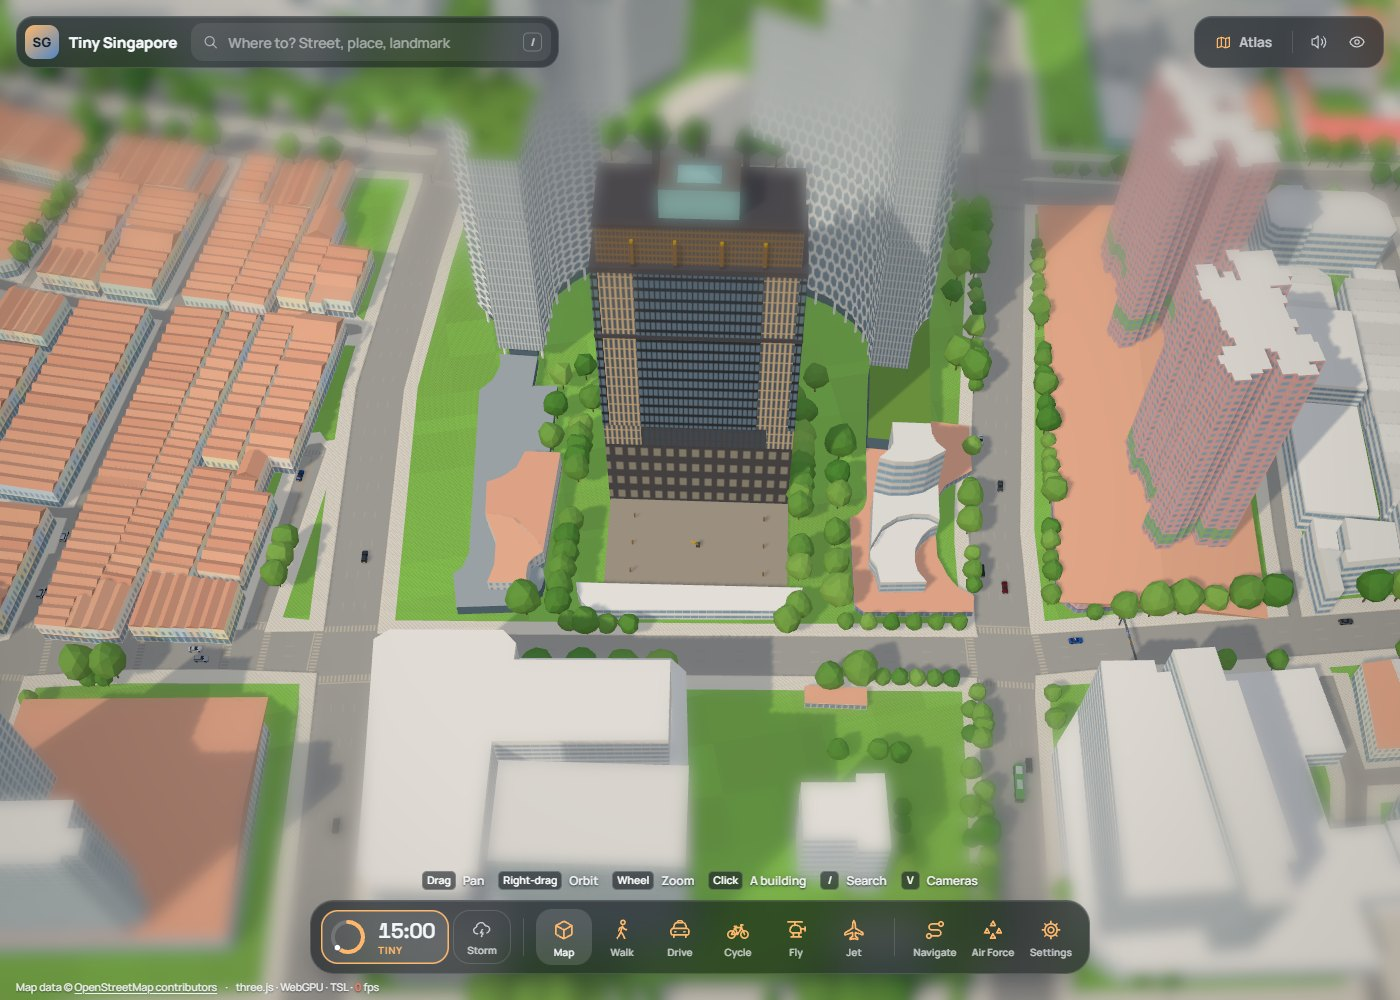
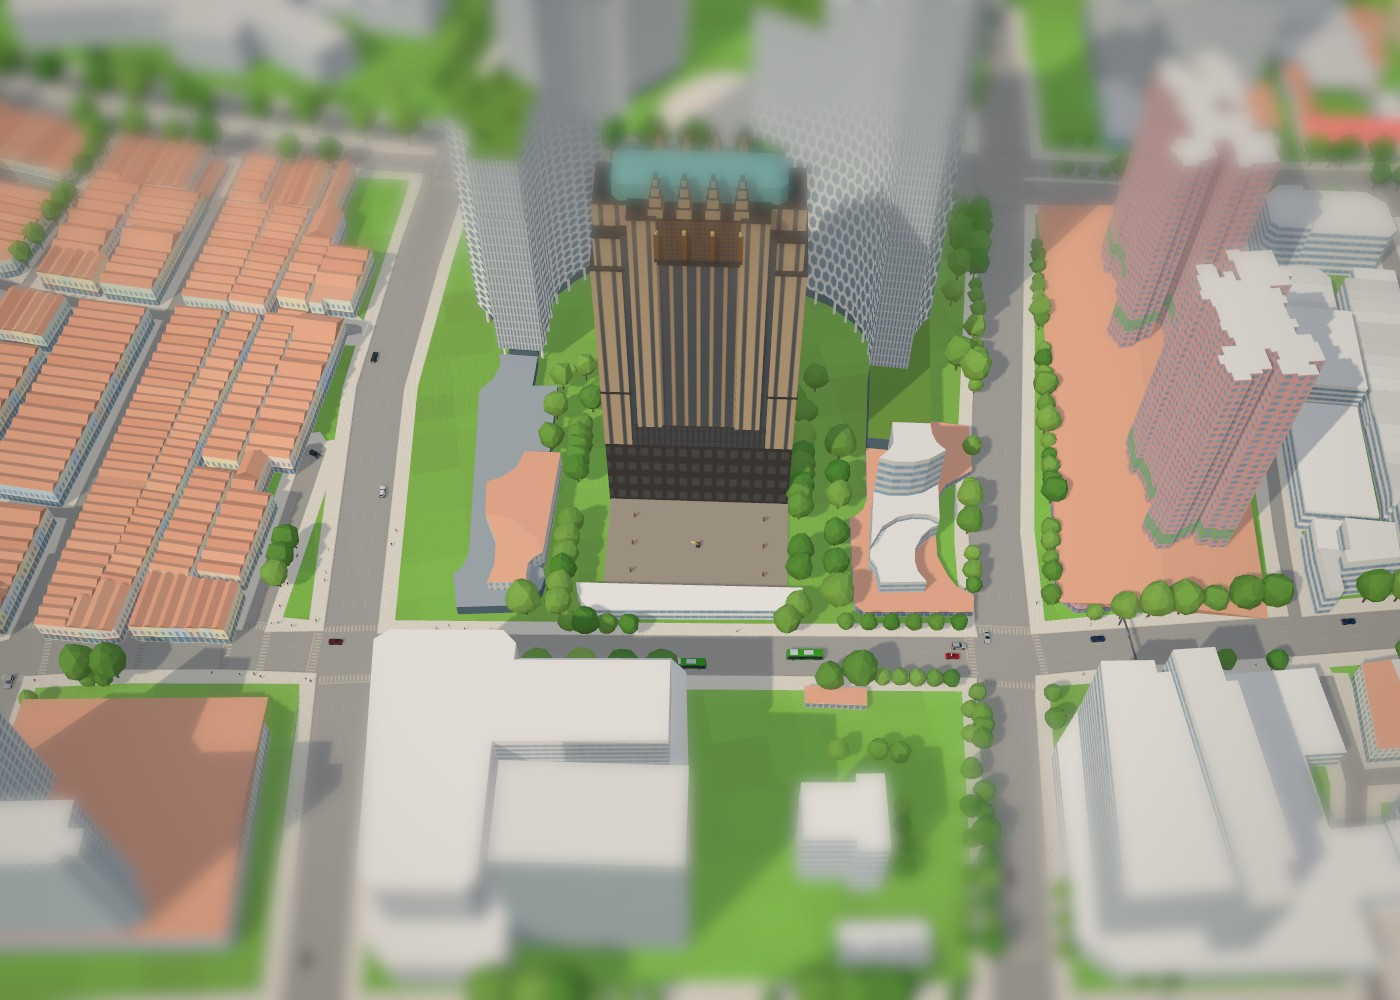
Rebuild SG-235 Parkview Square's facade and crown from the photographs
The first version read as a different building: a blue-black glass
curtain on each broad face framed by a tan grid of floor lines, a bronze
band round the whole crown and three black slabs on one side of the
roof. Rebuilt against the Commons photographs and the aerial:

- warm tan granite cut by narrow dark slots (no floor lines) on the
  corner tiers and the proud pylons, with a dark glass recess between
- the recessed centre bay of six dark glass strips between tan piers
- the bronze grille only across the centre bay, a statue on each of its
  four piers and a four-stepped fin to 144 m over each, on both faces
- pylons rising to the grille's top, corner tiers stepping lower, and
  end attics carrying the long green-glass lantern on the roof deck

A new test pins that crown form and fails on the first version. Source
notes, preview and city renders, and the checklist row are updated;
full Windows suite 635 of 636 (only the tile-worker fixture fails).

diff --git a/js/landmark-models/parkview-square.js b/js/landmark-models/parkview-square.js
@@ -1,8 +1,18 @@
-// The Neo-Art-Deco "Gotham" tower at 600 North Bridge Road: charcoal plinth, striped
-// stone-and-glass shaft, bronze crown screen with its eight statues, stepped fins and
-// the green roof lantern, over the statue plaza with the golden crane.
-// See docs/parkview-square.md for the drawing frame and reference photographs.
+// The Neo-Art-Deco "Gotham" tower at 600 North Bridge Road: charcoal granite plinth, warm tan
+// granite shaft cut by dark bronze-glass slots, the dark glass centre bay on each broad face
+// under its bronze crown grille with four statues and four stepped fins, the taller tan pylons
+// either side, the lower stepped corner tiers and the long green-glass roof lantern, over the
+// statue plaza with the golden crane. See docs/parkview-square.md for the drawing frame and
+// reference photographs.
 export const info = { name: 'Parkview Square', height: 144 };
+
+// Along the long faces (a, metres north-east from the south corner): corner tier, dark glass
+// recess, tan pylon, then the centre bay between the statue piers, and the same mirrored.
+const L = 61, D = 26.7;
+const TIER = 8.9, RECESS = 2.2, PYLON = 7.8;
+const BAY0 = TIER + RECESS + PYLON, BAY1 = L - BAY0;
+const DECK = 132.8; // the roof deck: the grille's cornice and the ends' attics
+const PIERS = [0, 1, 2, 3].map(k => BAY0 + k * (BAY1 - BAY0) / 3);
 
 export function build(kit, site) {
   const mapped = id => site.parts.find(p => p.id === id).ring;
@@ -22,62 +32,88 @@ export function build(kit, site) {
     kit.collisionPrism({ ring: part.ring, y0: part.y0, y1: part.y1 });
     return part;
   };
+  // A block from corner (a0, b0) to (a1, b1); its first wall is the one along a at b0, so a
+  // facade's bays start at that corner (uv runs on round the ring).
+  const block = (a0, b0, a1, b1, y0, y1, material, top, name, collide = true) => {
+    const ring = plan([[a0, b0], [a1, b0], [a1, b1], [a0, b1]]);
+    const part = kit.prism({ ring, y0, y1, material, top, name });
+    if (collide) kit.collisionPrism({ ring, y0, y1 });
+    return part;
+  };
 
-  const darkStone = kit.material(0x4a484c);
-  const roofGrey = kit.material(0x6d6a66);
-  const bronze = kit.material(0x8a6a42, { roughness: 0.38, metalness: 0.55 });
-  const gold = kit.material(0xc9a227, { roughness: 0.3, metalness: 0.65 });
+  const darkStone = kit.material(0x3f3b39);
+  const tanStone = kit.material(0xb8a48a);
+  const bronze = kit.material(0x7d5a39, { roughness: 0.38, metalness: 0.55 });
+  const gold = kit.material(0xd8c38a, { roughness: 0.3, metalness: 0.5 });
   const paving = kit.material(0x9a9184);
-  const lanternGlass = kit.glassMaterial(0x8fb8ad);
-  const plinthFacade = kit.facadeMaterial({ wall: 0x4c4a4c, window: 0x8a795c, pattern: 'punched', floorHeight: 8, bayWidth: 4.2, windowWidth: 0.55, windowHeight: 0.5 });
-  const bandFacade = kit.facadeMaterial({ wall: 0x4c4a4c, window: 0x242526, pattern: 'strips', floorHeight: 5, bayWidth: 1.8, windowWidth: 0.65 });
-  const shaftFacade = kit.facadeMaterial({ wall: 0xcbb391, window: 0x33393f, pattern: 'strips', floorHeight: 4.4, bayWidth: 1.55, windowWidth: 0.6 });
-  const glassField = kit.facadeMaterial({ wall: 0x2e3134, window: 0x54626e, pattern: 'curtain', floorHeight: 4.4, bayWidth: 1.55 });
-  const screenFacade = kit.facadeMaterial({ wall: 0x8a6f4d, window: 0x37302a, pattern: 'curtain', floorHeight: 2.3, bayWidth: 1.1 });
+  const darkGlass = kit.glassMaterial(0x2a2623);
+  const lanternGlass = kit.glassMaterial(0x6f9c8c);
+  const plinthFacade = kit.facadeMaterial({ wall: 0x403c3b, window: 0x2a2018, pattern: 'punched', floorHeight: 8, bayWidth: 4.2, windowWidth: 0.6, windowHeight: 0.5 });
+  const bandFacade = kit.facadeMaterial({ wall: 0x46423f, window: 0x26221f, pattern: 'strips', floorHeight: 5, bayWidth: 1.8, windowWidth: 0.6 });
+  // Tan granite with narrow dark slots running the shaft's height (no floor lines: the slots'
+  // spandrels are dark bronze); bays sized so every face starts and ends on a pier.
+  const slots = bay => kit.facadeMaterial({ wall: 0xb8a48a, window: 0x332d29, pattern: 'strips', floorHeight: 150, bayWidth: bay, windowWidth: 1.3 / bay });
+  const tierStone = slots(D / 6), pylonStone = slots((D + 0.6) / 7);
+  // The centre bays: six tall dark bronze-glass fields between narrow tan piers.
+  const centreField = kit.facadeMaterial({ wall: 0xa8937a, window: 0x332d29, pattern: 'strips', floorHeight: 150, bayWidth: (BAY1 - BAY0 - 0.1) / 6, windowWidth: 0.72 });
+  const grille = kit.facadeMaterial({ wall: 0x7a5a3c, window: 0x2d2620, pattern: 'curtain', floorHeight: 1.6, bayWidth: 1.3 });
 
-  // The mapped 1-level plaza deck north-west of the tower, and the tower's charcoal plinth.
+  // The mapped 1-level plaza deck north-west of the tower, and the charcoal granite plinth.
   kit.prism({ ring: plaza, y1: 0.9, material: paving, top: paving, name: 'plaza-deck', outlineCollision: true });
-  box(30.5, 13.35, { y: 0, w: 61, h: 32, d: 26.7, material: plinthFacade, top: darkStone, name: 'plinth' });
-  // The level 6-8 band, keeping the mapper's dark colonnade centre and tan ends.
-  solid(28.9, 13.35, { y: 32, w: 40.4, h: 10, d: 26.7, material: bandFacade, top: darkStone, name: 'colonnade-band' });
-  solid(4.35, 13.35, { y: 32, w: 8.7, h: 10, d: 26.7, material: shaftFacade, top: darkStone, name: 'band-end-sw' });
-  solid(55.05, 13.35, { y: 32, w: 11.9, h: 10, d: 26.7, material: shaftFacade, top: darkStone, name: 'band-end-ne' });
-
-  // The striped shaft in two lifts either side of its dark string course.
-  solid(30.5, 13.35, { y: 42, w: 61, h: 42.5, d: 26.7, material: shaftFacade, top: roofGrey, name: 'shaft-lower' });
-  solid(30.5, 13.35, { y: 84.5, w: 61.9, h: 1.5, d: 27.6, material: darkStone, top: darkStone, name: 'string-course' });
-  solid(30.5, 13.35, { y: 86, w: 61, h: 26, d: 26.7, material: shaftFacade, top: roofGrey, name: 'shaft-upper' });
-
-  // Dark glass centre fields proud of the stripes, and the dark corner bays.
-  for (const b of [-0.1, 26.8]) box(30.5, b, { y: 42, w: 37, h: 69.7, d: 0.35, material: glassField, top: darkStone, name: 'glass-centre-field' });
-  for (const a of [-0.1, 61.1]) box(a, 13.35, { y: 42, w: 0.35, h: 69.7, d: 5.5, material: glassField, top: darkStone, name: 'glass-end-slot' });
-  for (const [a, b] of [[0.85, 0.85], [60.15, 0.85], [0.85, 25.85], [60.15, 25.85]]) {
-    box(a, b, { y: 42, w: 2.2, h: 69.7, d: 2.2, material: glassField, top: darkStone, name: 'corner-bay' });
+  box(L / 2, D / 2, { y: 0, w: L, h: 32, d: D, material: plinthFacade, top: darkStone, name: 'plinth' });
+  // The level 6-8 band keeps the mapper's dark colonnade (centre bay, pylons and recesses);
+  // the tan corner tiers start there, set back with a cornice at 58 m and 113 m, capped at 125 m,
+  // and an attic in the middle of each end carries the lantern up to the roof deck.
+  solid(L / 2, D / 2, { y: 32, w: L - 2 * TIER, h: 10, d: D, material: bandFacade, top: darkStone, name: 'colonnade-band' });
+  for (const [a0, a1, end] of [[0, TIER, 0], [L - TIER, L, L]]) {
+    const side = end ? 'ne' : 'sw', inA = end ? [a0, a1 - 1.2] : [a0 + 1.2, a1];
+    block(a0, 0, a1, D, 32, 113, tierStone, darkStone, `corner-tier-${side}`);
+    for (const y of [58, 112.4]) box((a0 + a1) / 2, D / 2, { y, w: TIER + 0.5, h: 0.8, d: D + 0.5, material: darkStone, top: darkStone, name: 'tier-cornice' });
+    block(inA[0], 1.2, inA[1], D - 1.2, 113, 124, tierStone, darkStone, `corner-tier-top-${side}`);
+    solid((inA[0] + inA[1]) / 2, D / 2, { y: 124, w: TIER - 0.7, h: 1, d: D - 1.9, material: darkStone, top: darkStone, name: 'tier-cap' });
+    const attic = end ? [L - TIER - RECESS + 0.1, inA[1]] : [inA[0], TIER + RECESS - 0.1];
+    block(attic[0], 5, attic[1], D - 5, 125, DECK, tierStone, darkStone, `end-attic-${side}`);
+    // The dark glass strip up the middle of each end face.
+    box(end ? L + 0.1 : -0.1, D / 2, { y: 42, w: 0.2, h: 70, d: 3.4, material: darkGlass, top: darkStone, name: 'end-glass-strip' });
+  }
+  // The dark glass recesses between the corner tiers and the pylons, up to the attics' foot.
+  for (const a0 of [TIER, L - TIER - RECESS]) block(a0, 0.7, a0 + RECESS, D - 0.7, 42, 125.3, darkGlass, darkStone, 'glass-recess');
+  // The tan pylons framing the centre bay, standing a little proud and rising highest.
+  for (const a0 of [TIER + RECESS, BAY1]) {
+    block(a0, -0.3, a0 + PYLON, D + 0.3, 42, 132.5, pylonStone, darkStone, 'pylon');
+    solid(a0 + PYLON / 2, D / 2, { y: 132.5, w: PYLON + 0.5, h: 1.2, d: D + 1.1, material: darkStone, top: darkStone, name: 'pylon-cornice' });
   }
 
-  // Crown: cornice, the inset bronze grille screen and its own cornice.
-  solid(30.5, 13.35, { y: 112, w: 61.7, h: 2, d: 27.4, material: darkStone, top: darkStone, name: 'crown-cornice' });
-  solid(30.5, 13.35, { y: 114, w: 57.8, h: 14, d: 23.5, material: screenFacade, top: darkStone, name: 'crown-screen' });
-  solid(30.5, 13.35, { y: 128, w: 58.6, h: 1.2, d: 24.3, material: darkStone, top: darkStone, name: 'screen-cornice' });
+  // The centre bay: a dark core behind the two glass fields, which sit back from the pylons.
+  block(BAY0 + 0.1, 0.9, BAY1 - 0.1, D - 0.9, 42, 114.9, darkStone, darkStone, 'centre-core');
+  block(BAY0 + 0.05, 0.6, BAY1 - 0.05, 1.0, 42, 115, centreField, darkStone, 'glass-centre-field', false);
+  block(BAY1 - 0.05, D - 0.6, BAY0 + 0.05, D - 1.0, 42, 115, centreField, darkStone, 'glass-centre-field', false);
 
-  // Four giant statues on plinths before the screen on each broad (long) side.
-  for (const b of [0.55, 26.15]) for (const a of [12, 24, 37, 49]) {
-    box(a, b, { y: 114, w: 1.1, h: 1.2, d: 1.1, material: darkStone, top: darkStone, name: 'crown-statue-plinth' });
-    box(a, b, { y: 115.2, w: 0.9, h: 8, d: 0.9, material: bronze, top: bronze, name: 'crown-statue' });
+  // Crown: the cornice over the centre bay, the inset bronze grille screen and its own cornice,
+  // whose top is the roof deck.
+  solid((BAY0 + BAY1) / 2, D / 2, { y: 115, w: BAY1 - BAY0, h: 2, d: D - 0.4, material: darkStone, top: darkStone, name: 'crown-cornice' });
+  solid((BAY0 + BAY1) / 2, D / 2, { y: 117, w: BAY1 - BAY0, h: 15, d: D - 1.2, material: grille, top: darkStone, name: 'crown-screen' });
+  solid((BAY0 + BAY1) / 2, D / 2, { y: 132, w: BAY1 - BAY0, h: DECK - 132, d: D - 0.6, material: darkStone, top: darkStone, name: 'screen-cornice' });
+
+  // On each broad face, a giant statue on each of the four piers of the grille, holding a light
+  // globe, and over each pier a stepped fin rising from the face to the 144 m crown.
+  for (const [b, inward] of [[0, 1], [D, -1]]) for (const a of PIERS) {
+    box(a, b, { y: 117, w: 1.4, h: 1.2, d: 1.4, material: darkStone, top: darkStone, name: 'crown-statue-plinth' });
+    box(a, b, { y: 118.2, w: 1.4, h: 9.2, d: 1.1, material: bronze, top: bronze, name: 'crown-statue' });
     const [x, z] = point(a, b);
-    kit.cylinder({ x, z, y0: 123.2, y1: 124.1, r: 0.5, segments: 10, material: gold, top: gold, name: 'crown-statue-ball' });
+    kit.cylinder({ x, z, y0: 127.4, y1: 128.4, r: 0.55, segments: 10, material: gold, top: gold, name: 'crown-statue-ball' });
+    const back = b + inward * 6.0;
+    for (const [y0, y1, w, front, name] of [[DECK, 136, 4, 0.3, 'crown-fin'], [136, 139, 3.1, 1.2, 'crown-fin-step'], [139, 141.8, 2.2, 2.1, 'crown-fin-step'], [141.8, 144, 1.3, 3, 'crown-fin-tip']]) {
+      const b0 = b + inward * front;
+      solid(a, (b0 + back) / 2, { y: y0, w, h: y1 - y0, d: Math.abs(back - b0), material: tanStone, top: darkStone, name });
+    }
   }
 
-  // Stepped transverse fins along the front of the roof, the glass lantern behind them.
-  for (const a of [18, 30.5, 43]) {
-    solid(a, 5, { y: 129.2, w: 1.8, h: 8.8, d: 8, material: darkStone, top: darkStone, name: 'crown-fin' });
-    solid(a, 5, { y: 138, w: 1.8, h: 3, d: 4.5, material: darkStone, top: darkStone, name: 'crown-fin-step' });
-  }
-  solid(30.5, 5, { y: 141, w: 1.8, h: 3, d: 2.6, material: darkStone, top: darkStone, name: 'crown-fin-tip' });
-  solid(30.5, 16, { y: 126, w: 22, h: 13.5, d: 13, material: lanternGlass, top: roofGrey, name: 'roof-lantern' });
-  const capRing = plan([[24.5, 12.5], [36.5, 12.5], [36.5, 19.5], [24.5, 19.5]]);
-  kit.loft({ ring: capRing, y0: 139.5, y1: 141.5, scale: 0.3, material: lanternGlass, top: lanternGlass, name: 'roof-lantern-cap' });
-  kit.collisionPrism({ ring: plan([[27, 14], [34, 14], [34, 18], [27, 18]]), y0: 139.5, y1: 141.5 });
+  // The long green-glass lantern on the roof deck, its corners cut, between the two rows of fins.
+  const lantern = plan([[8.5, 6.8], [L - 8.5, 6.8], [L - 6.5, 8.8], [L - 6.5, D - 8.8], [L - 8.5, D - 6.8], [8.5, D - 6.8], [6.5, D - 8.8], [6.5, 8.8]]);
+  kit.prism({ ring: lantern, y0: DECK, y1: 138.8, material: lanternGlass, top: lanternGlass, name: 'roof-lantern' });
+  kit.collisionPrism({ ring: lantern, y0: DECK, y1: 138.8 });
+  kit.loft({ ring: lantern, y0: 138.8, y1: 140.2, scale: 0.85, material: lanternGlass, top: lanternGlass, name: 'roof-lantern-cap' });
 
   // The golden crane at the plaza centre, with effigy stubs around the deck.
   box(30, 45, { y: 0.9, w: 1.4, h: 1.1, d: 1.4, material: darkStone, top: darkStone, name: 'golden-crane-plinth' });

diff --git a/docs/landmark-checklist.md b/docs/landmark-checklist.md
@@ -267,7 +267,7 @@ Columns are deliberately row-local: update your row rather than maintaining shar
 | SG-232 | [ ] | Singapore Art Museum — former Saint Joseph's Institution | Dome, curved wings and courtyards | todo | — |
 | SG-233 | [ ] | CHIJMES | Chapel, arcades and open courts | todo | — |
 | SG-234 | [ ] | Cathedral of the Good Shepherd | Tower, portico and pitched roofs | todo | — |
-| SG-235 | [ ] | Parkview Square | Neo-Art-Deco Gotham tower: charcoal plinth and colonnade band, tan/dark striped shaft with glass centre fields, bronze crown screen with eight statues, stepped fins and green roof lantern over the crane plaza; [model](../js/landmark-models/parkview-square.js), [sources and verification](parkview-square.md), [render](images/parkview-square-overview.png), [city](images/parkview-square-city.jpg); 273 targeted / 627-of-635 Windows checks pass on merged main (8 documented platform fixtures) | review | Meta Muse / 01a1a4a1; `datainvestor/add-two-midlist-buildings`; user-assigned 2026-11-04; [PR #29](https://github.com/datainvestor/tiny-singapore/pull/29); shared-branch acceptance pending |
+| SG-235 | [ ] | Parkview Square | Neo-Art-Deco Gotham tower as photographed: charcoal plinth and dark colonnade band; warm tan granite cut by dark slots on the stepped corner tiers and the proud pylons; the recessed dark glass centre bays under the bronze grille, with four statues and four stepped fins to 144 m on each broad face; the green-glass roof lantern, over the crane plaza; crown and façade rebuilt in review from a first version that read as a blue glass curtain under a bronze band; [model](../js/landmark-models/parkview-square.js), [sources and verification](parkview-square.md), [render](images/parkview-square-overview.png), [city](images/parkview-square-city.jpg); full Windows suite 635 of 636 (only the tile-worker fixture fails) | review | Meta Muse / 01a1a4a1, rebuilt in review by Claude Code; `datainvestor/add-two-midlist-buildings`; user-assigned 2026-11-04; [PR #29](https://github.com/datainvestor/tiny-singapore/pull/29); shared-branch acceptance pending |
 | SG-236 | [x] | DUO — both towers and Galleria | Honeycomb, carved curves and plaza; [sources and verification](duo.md). User approved 2026-11-04 in [checklist PR #27](https://github.com/datainvestor/tiny-singapore/pull/27). | done | Claude Code; `claude/building-models-map-37948b`; [model PR #4](https://github.com/datainvestor/tiny-singapore/pull/4) |
 | SG-237 | [ ] | Guoco Midtown — office tower, Midtown Square and former police station | Tower/canopies and preserved heritage block; housing separate | todo | — |
 | SG-238 | [ ] | Midtown Bay | Residential tower, podium and terraces; excludes Midtown Modern SG-296 | todo | — |
